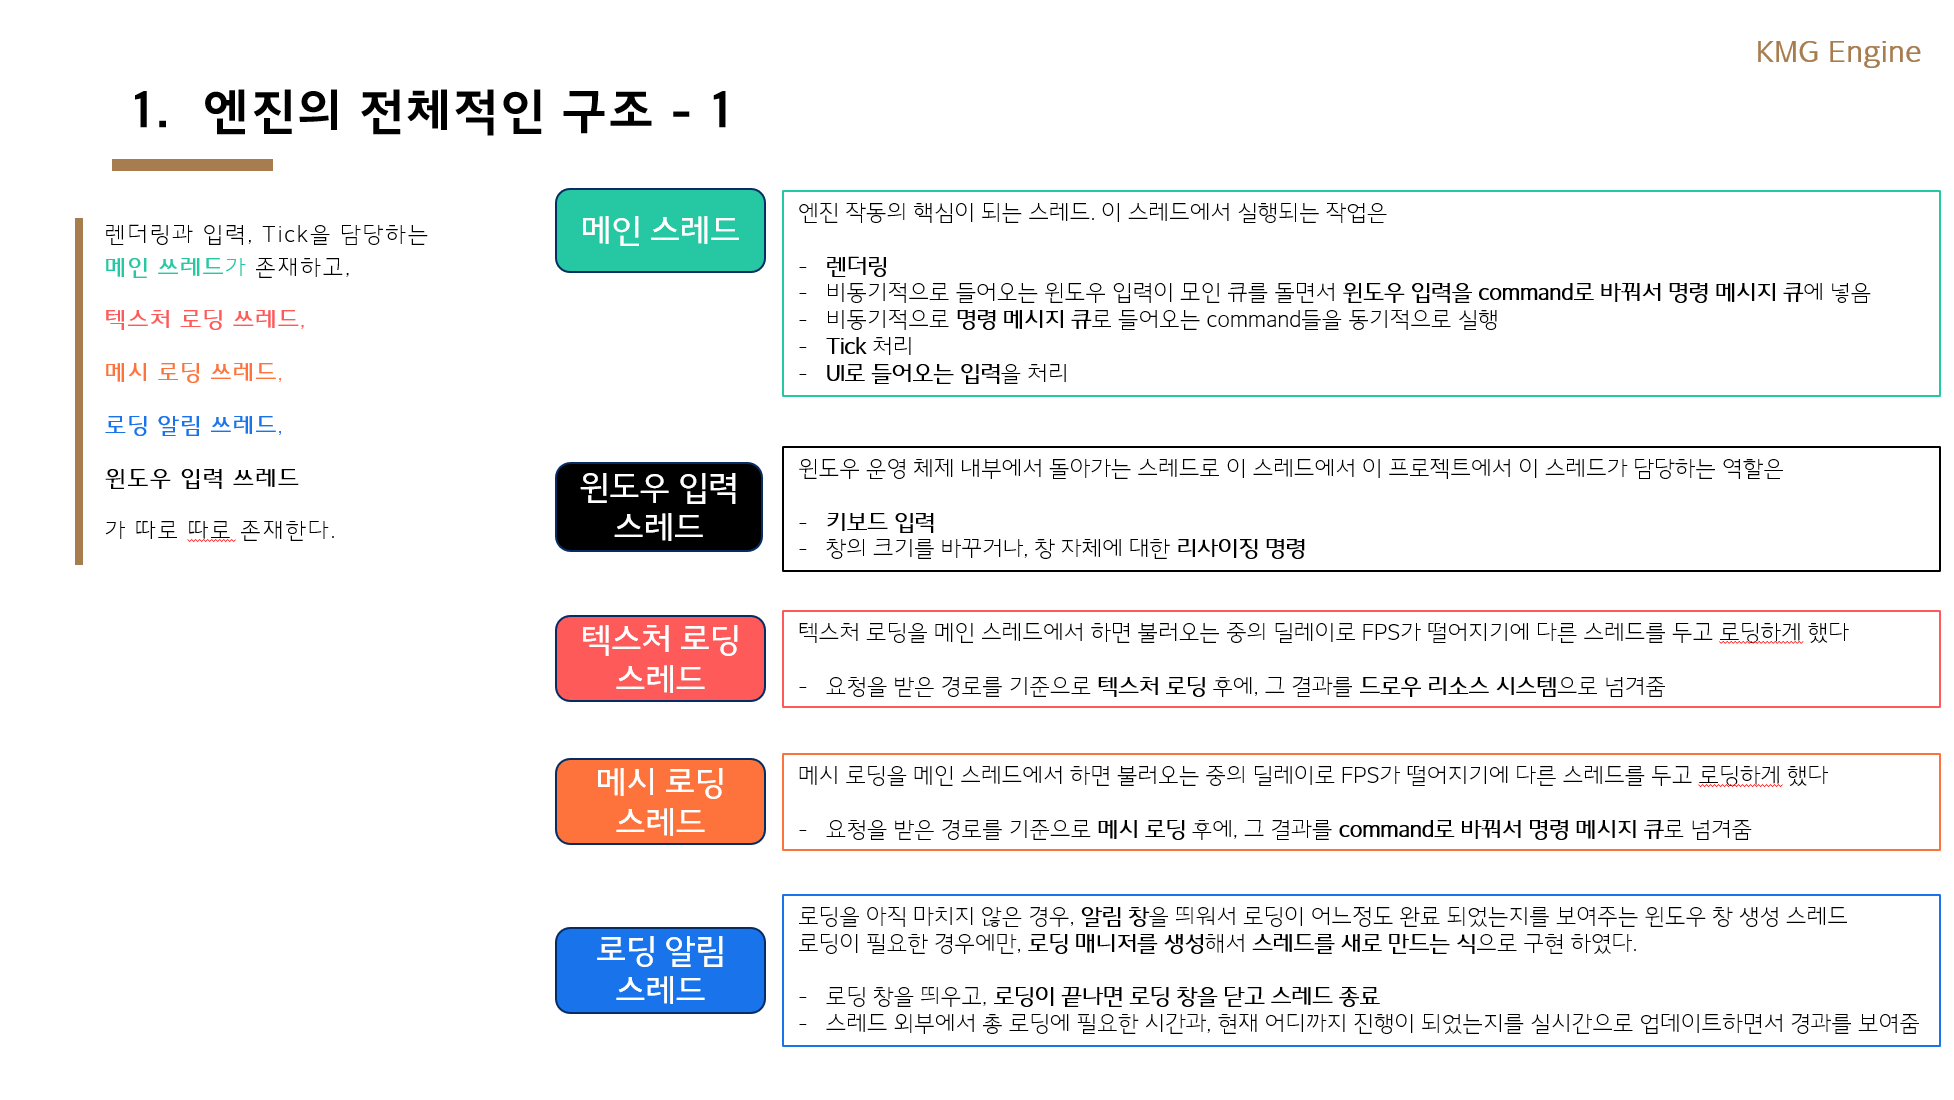
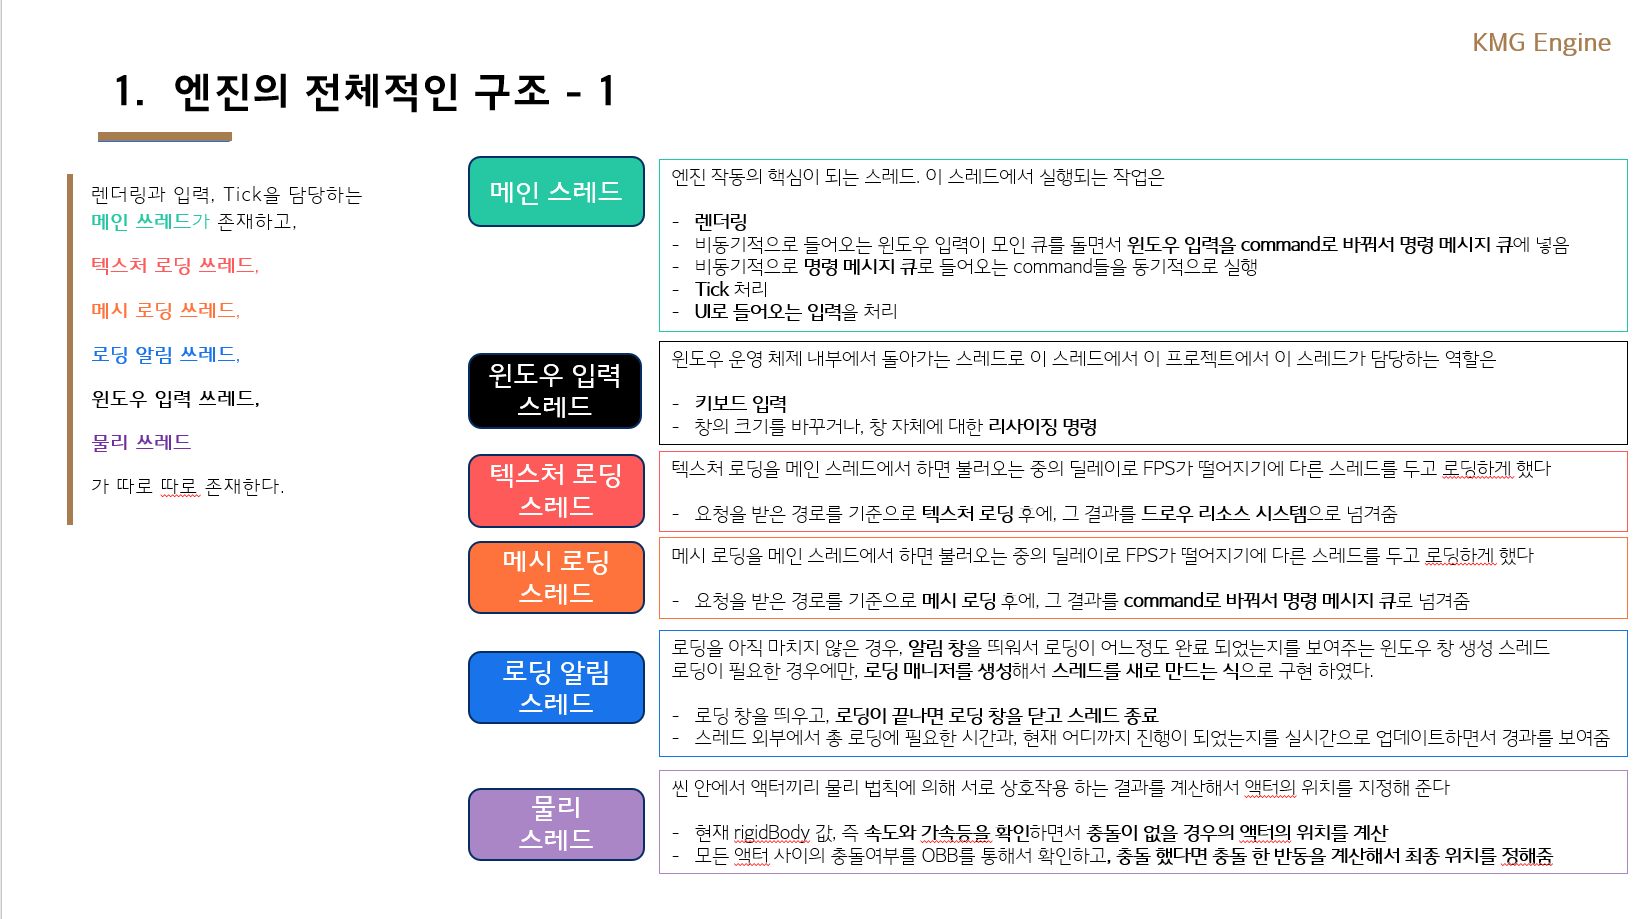
readme에 간단한 물리 설명 로직을 넣음

diff --git a/GitHubDetail/Architecture.md b/GitHubDetail/Architecture.md
@@ -1,39 +1,91 @@
-## 📌 엔진 아키텍처 그림 소개
+# 🎮 KMG Engine Architecture
 
-![Main Banner1](EngineArchitecture1.png)
-![Main Banner2](EngineArchitecture2.png)
+## 📌 엔진 아키텍처 개요
 
-
----
-
-### 🔍 아키텍처 설명
-
-- 엔진의 기본 구조는 **스레드 간 동기화**를 고려하여 설계되었습니다.  
-  IO 작업(텍스처/메시 로딩 등)이나 무거운 계산은 **메인 스레드 이전에 비동기 스레드에서 선처리**되며,  
-  최종적인 반영은 메인 스레드에서 수행됩니다.
-
-- 각각의 작업 전용 스레드는 **작업 요청 큐**를 받고,  
-  작업을 처리한 후 **Command 객체로 결과를 포장하여 Command 스케줄러에 전달**합니다.
-
-- 현재 구현된 작업 전용 스레드는 다음과 같습니다:
-  - 🎨 텍스처 로딩 스레드
-  - 🧱 메시 로딩 스레드
-
-- 입력 처리는 **IMGUI 라이브러리 특성상 렌더링 중에만 가능**하기 때문에,  
-  **UI 입력 처리와 렌더링은 메인 스레드에서 통합**되어 처리됩니다.  
-  만약 서로 다른 스레드에서 처리할 경우, **동기화 지연으로 인한 화면 끊김(race condition)이 발생**할 수 있습니다.
+![Engine Architecture 1](EngineArchitecture1.png)  
+![Engine Architecture 2](EngineArchitecture2.png)
 
 ---
 
-### 🧪 물리 엔진 설계 계획
+## 🧠 아키텍처 설계 개요
 
-- 향후 **물리 연산 전용 스레드**를 도입할 계획이며,  
-  이 경우 **transform 데이터의 경쟁 조건(race condition)** 문제가 빈번하게 발생할 수 있습니다.
+- 본 엔진은 **스레드 간 동기화**를 핵심으로 고려하여 설계되었습니다.
+- **IO 작업(텍스처/메시 로딩 등)** 또는 **고비용 연산**은 **메인 스레드 이전에 비동기 전용 스레드에서 선처리**되며, 최종 반영은 메인 스레드에서 일관되게 처리됩니다.
+- 각 작업 스레드는 **작업 요청 큐**를 통해 명령을 받고, 결과는 **Command 객체**로 감싸져 **Command 스케줄러**에 전달됩니다.
 
-- 이를 해결하기 위한 전략으로 **더블 버퍼링(double buffering)** 구조를 사용할 예정입니다:
+### ✅ 구현된 전용 작업 스레드
 
-  - 🧮 **물리 스레드**는 백버퍼(back buffer)에 데이터를 계산하고 기록
-  - 🖼 **메인 스레드**는 프런트 버퍼(front buffer)에서 읽기 전용으로 렌더링에 사용
-  - 두 버퍼는 **스왑(swap)**을 통해 안전하게 교체되어 동기화 문제를 방지
+- 🎨 텍스처 로딩 스레드
+- 🧱 메시 로딩 스레드
+- ⚙ 물리 계산 스레드
+
+### ⚠ 입력 처리 주의사항
+
+- IMGUI 특성상, **입력 처리는 렌더링 중에만 유효**하므로  
+  → **UI 입력 처리와 렌더링은 메인 스레드에서 통합 처리**됩니다.
+- 입력 처리를 별도 스레드에서 처리하면, **동기화 지연으로 인한 프레임 끊김**(race condition)이 발생할 수 있습니다.
 
 ---
+
+## 🧪 물리 엔진 동작 및 동기화 전략
+
+- 물리 엔진 스레드는 **모든 액터의 Transform 변경을 담당하는 유일한 책임**을 가집니다.
+- 사용자가 Transform 변경을 요청하면, 해당 요청은 **큐에 저장**되고 물리 엔진 스레드가 이를 **큐에서 읽어 처리**합니다.
+- **물리 엔진 스레드와 렌더링 스레드는 서로 다른 주기로 동작**하며, 이로 인해 동기화 방식이 매우 중요합니다.
+
+---
+
+## 🛡 물리 엔진에서 FPS 최적화를 위한 동기화 전략
+
+### 1⃣ Transform 더블 버퍼링
+
+- `writeTransform`: 물리 스레드가 계속 갱신
+- `readTransform`: 렌더 스레드가 계속 사용
+- 렌더링 시작 시점에만 **mutex를 잠그고 write → read로 복사**  
+  → 평소에는 스레드 간 대기 없이 높은 FPS 유지
+
+### 2⃣ Queue 더블 버퍼링
+
+- 작업 요청 큐도 두 개로 분리:
+  - 하나는 **쓰기 버퍼** (요청 입력 전용)
+  - 다른 하나는 **읽기 버퍼** (실행 전용)
+- 작업 실행 전 **버퍼를 swap**하며, 이 순간에만 mutex를 사용  
+  → 큐 접근 대기 최소화
+
+---
+
+## ⚙ 작업별 스레드 최적화 구조
+
+### 🎨 메시 로딩 최적화
+
+> 메시를 로딩하는 것은 IO 작업이기에 오래 걸리는데 어떻게 하지?
+
+- 메시 처리 작업은 두 단계로 분리:
+  1. **파일에서 메시 데이터를 읽는 작업** (IO 중심, 병목 발생)
+  2. **읽은 메시 데이터를 액터에 적용하는 작업** (연산 중심)
+- 따라서:
+  - **파일 읽기**는 **전용 메시 로딩 스레드**에서 처리
+  - **액터에 적용**은 **메인 스레드**에서 Command로 수행
+- 이 구조는 **멀티스레드의 빠른 실행력**과 **렌더 동기화 안정성**을 동시에 확보함
+
+### 🧱 텍스처 로딩 최적화
+
+> 텍스처를 로딩하는 것도 IO 작업이기에 오래 걸리는데 어떻게 하지?
+
+- 텍스처도 메시와 마찬가지로 두 단계로 분리:
+  1. **파일에서 읽어오는 작업** (IO 중심)
+  2. **드로우 리소스 시스템에 텍스처를 등록하는 작업** (GPU 리소스 접근)
+- IO는 **텍스처 로딩 스레드**가 담당  
+- GPU 등록은 **Command로 전달**, 메인 스레드에서 처리
+- 동시에 사용할 수 있는 구조이므로 텍스처 교체/재사용에도 유연함
+- **mutex를 최소화하여 성능을 보장**하는 구조로 설계됨
+
+### 🖼 렌더링 커맨드 최적화
+
+> 그림 리소스를 일일이 하나씩 준비하고 그리는 것은 시간이 많이 걸릴 것 같은데 시간을 줄일 수 있는 방법이 없을까?
+
+- DirectX11에서는 **Deferred Context**를 통해 **멀티스레드로 CommandList를 생성 가능**
+- 즉:
+  - 렌더링 스레드들이 **CommandList**를 비동기 생성
+  - 메인 스레드에서는 **생성된 List를 병합 및 실행**
+- 이 구조를 통해 **Draw 호출 병목을 줄이고**, **MainContext는 실행에만 집중**할 수 있음

diff --git a/README.md b/README.md
@@ -23,7 +23,7 @@
 - 🧱 Win32 API를 이용한 윈도우 및 입력 처리
 - 🖱 디버그 및 에디터용 UI 구현 (Dear ImGui 사용)
 - 🧩 향후 확장 가능한 모듈형 구조 설계
-- 기본적인 중력, 충돌등이 구현되어 있는 물리 엔진
+- ⚙ 기본적인 중력, 충돌등이 구현되어 있는 물리 엔진
 
 ## 🛠 사용 기술
 
